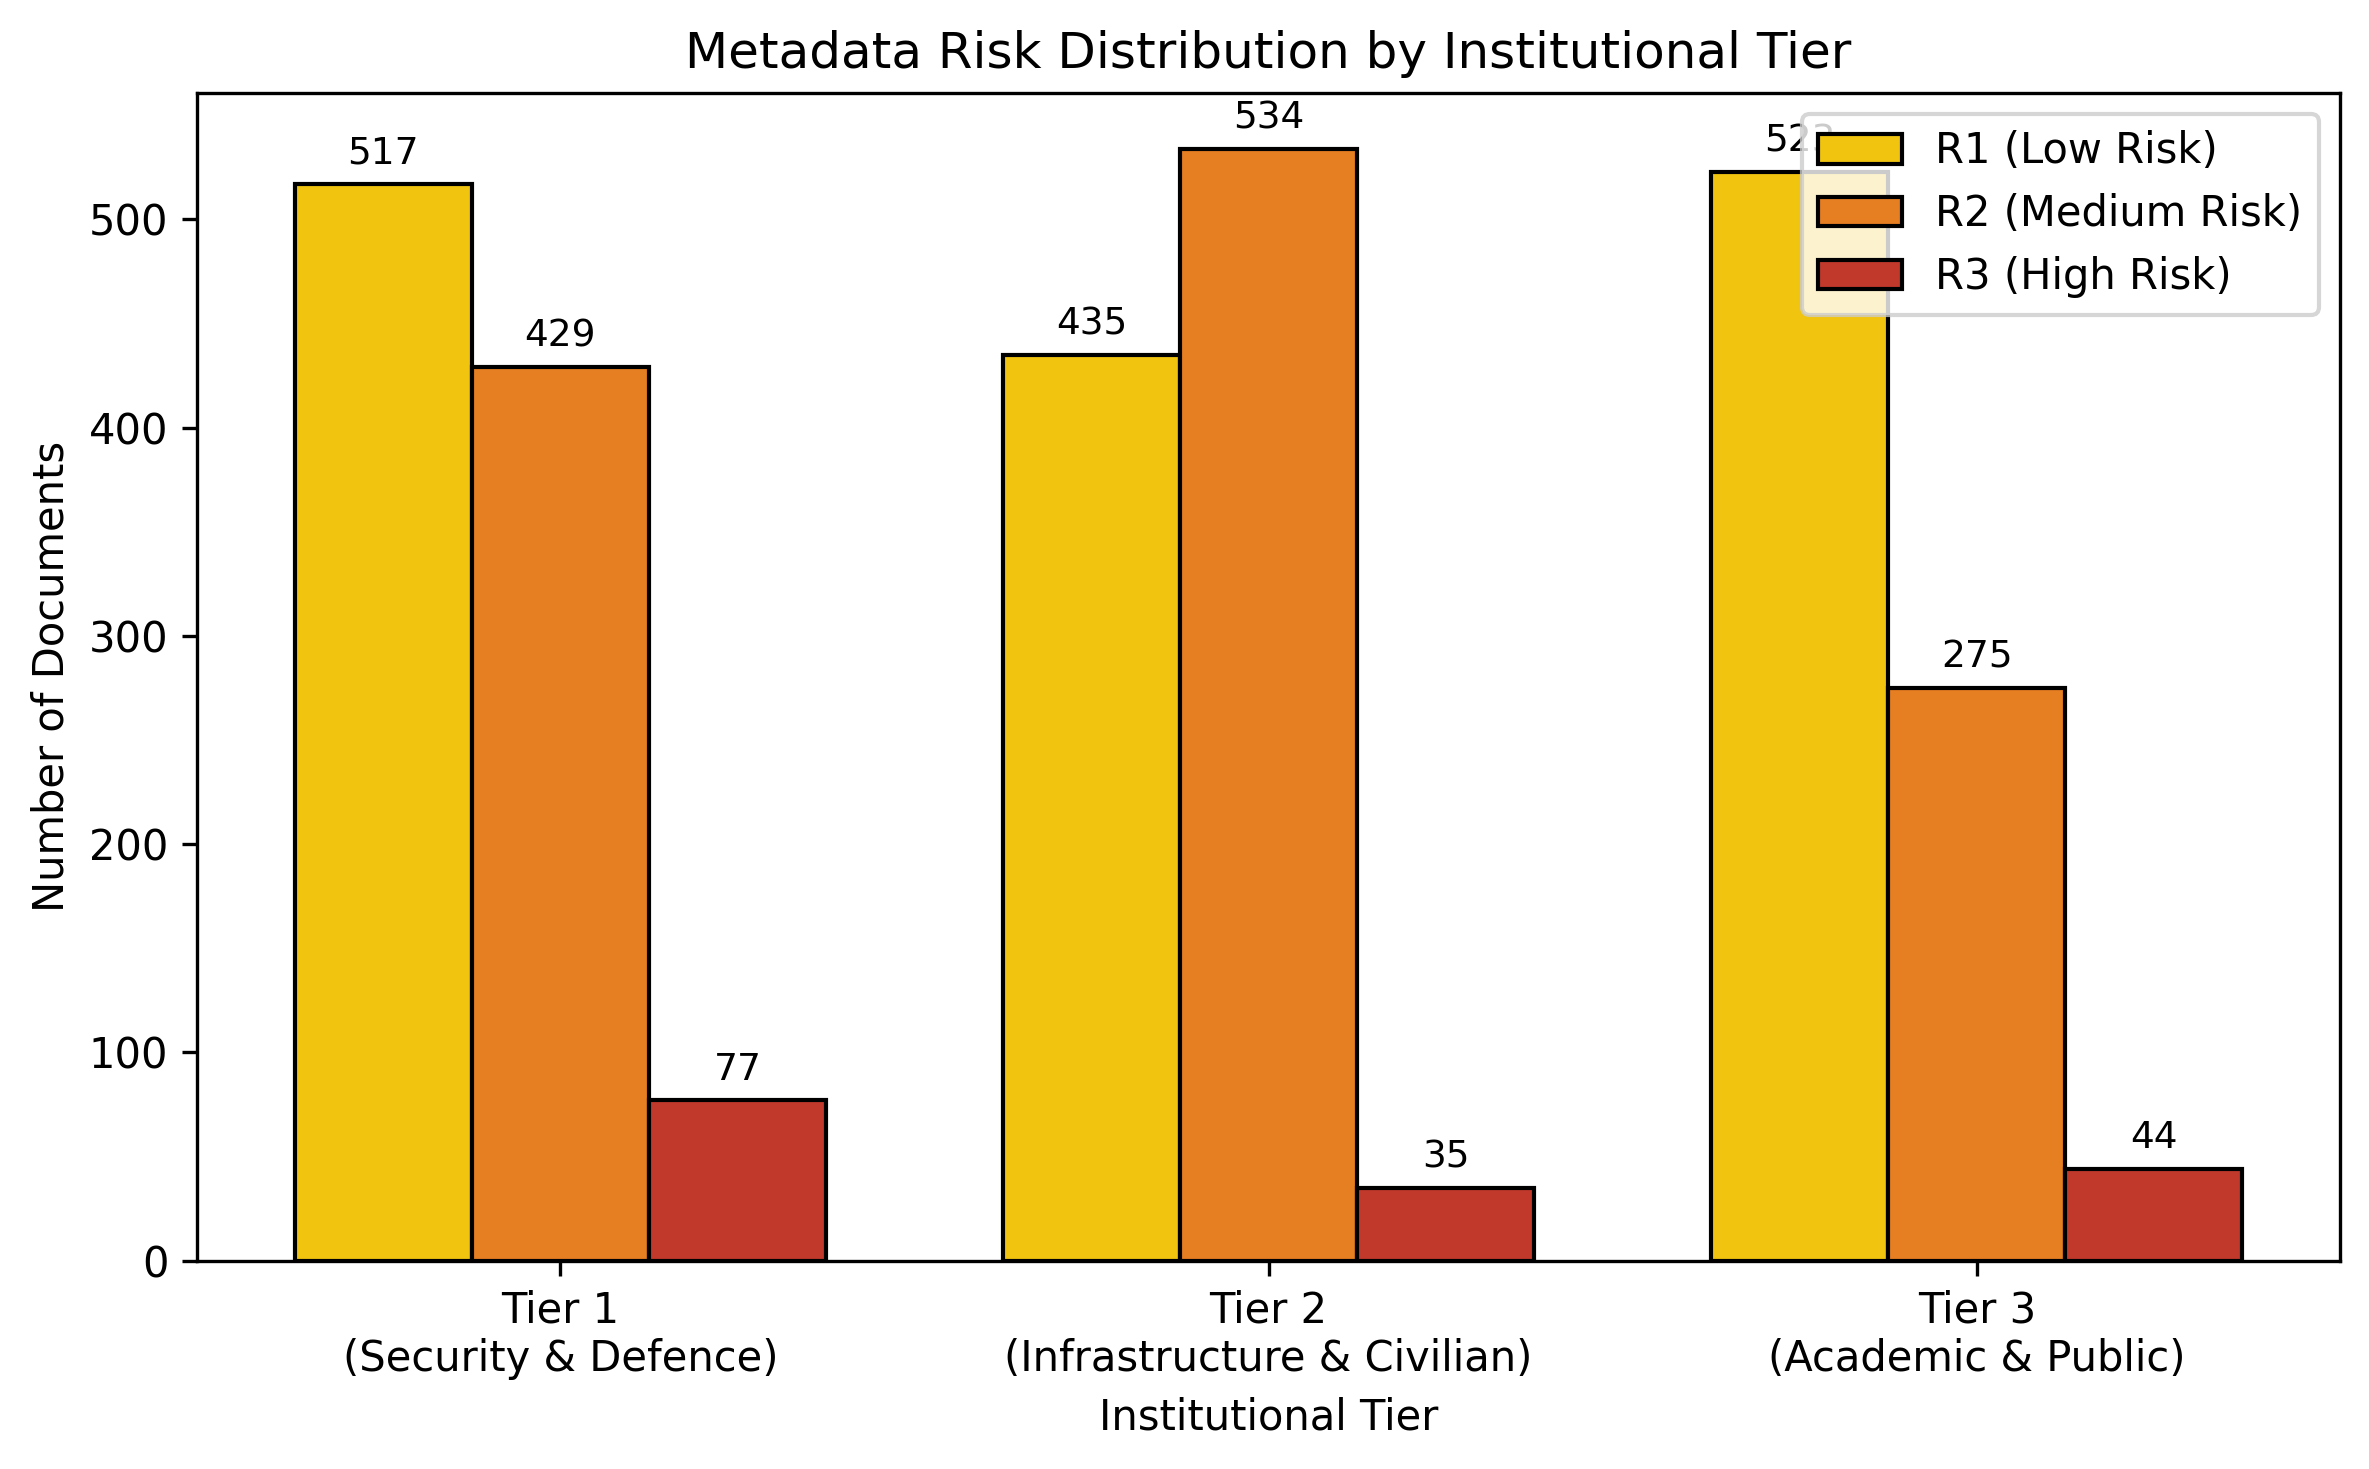
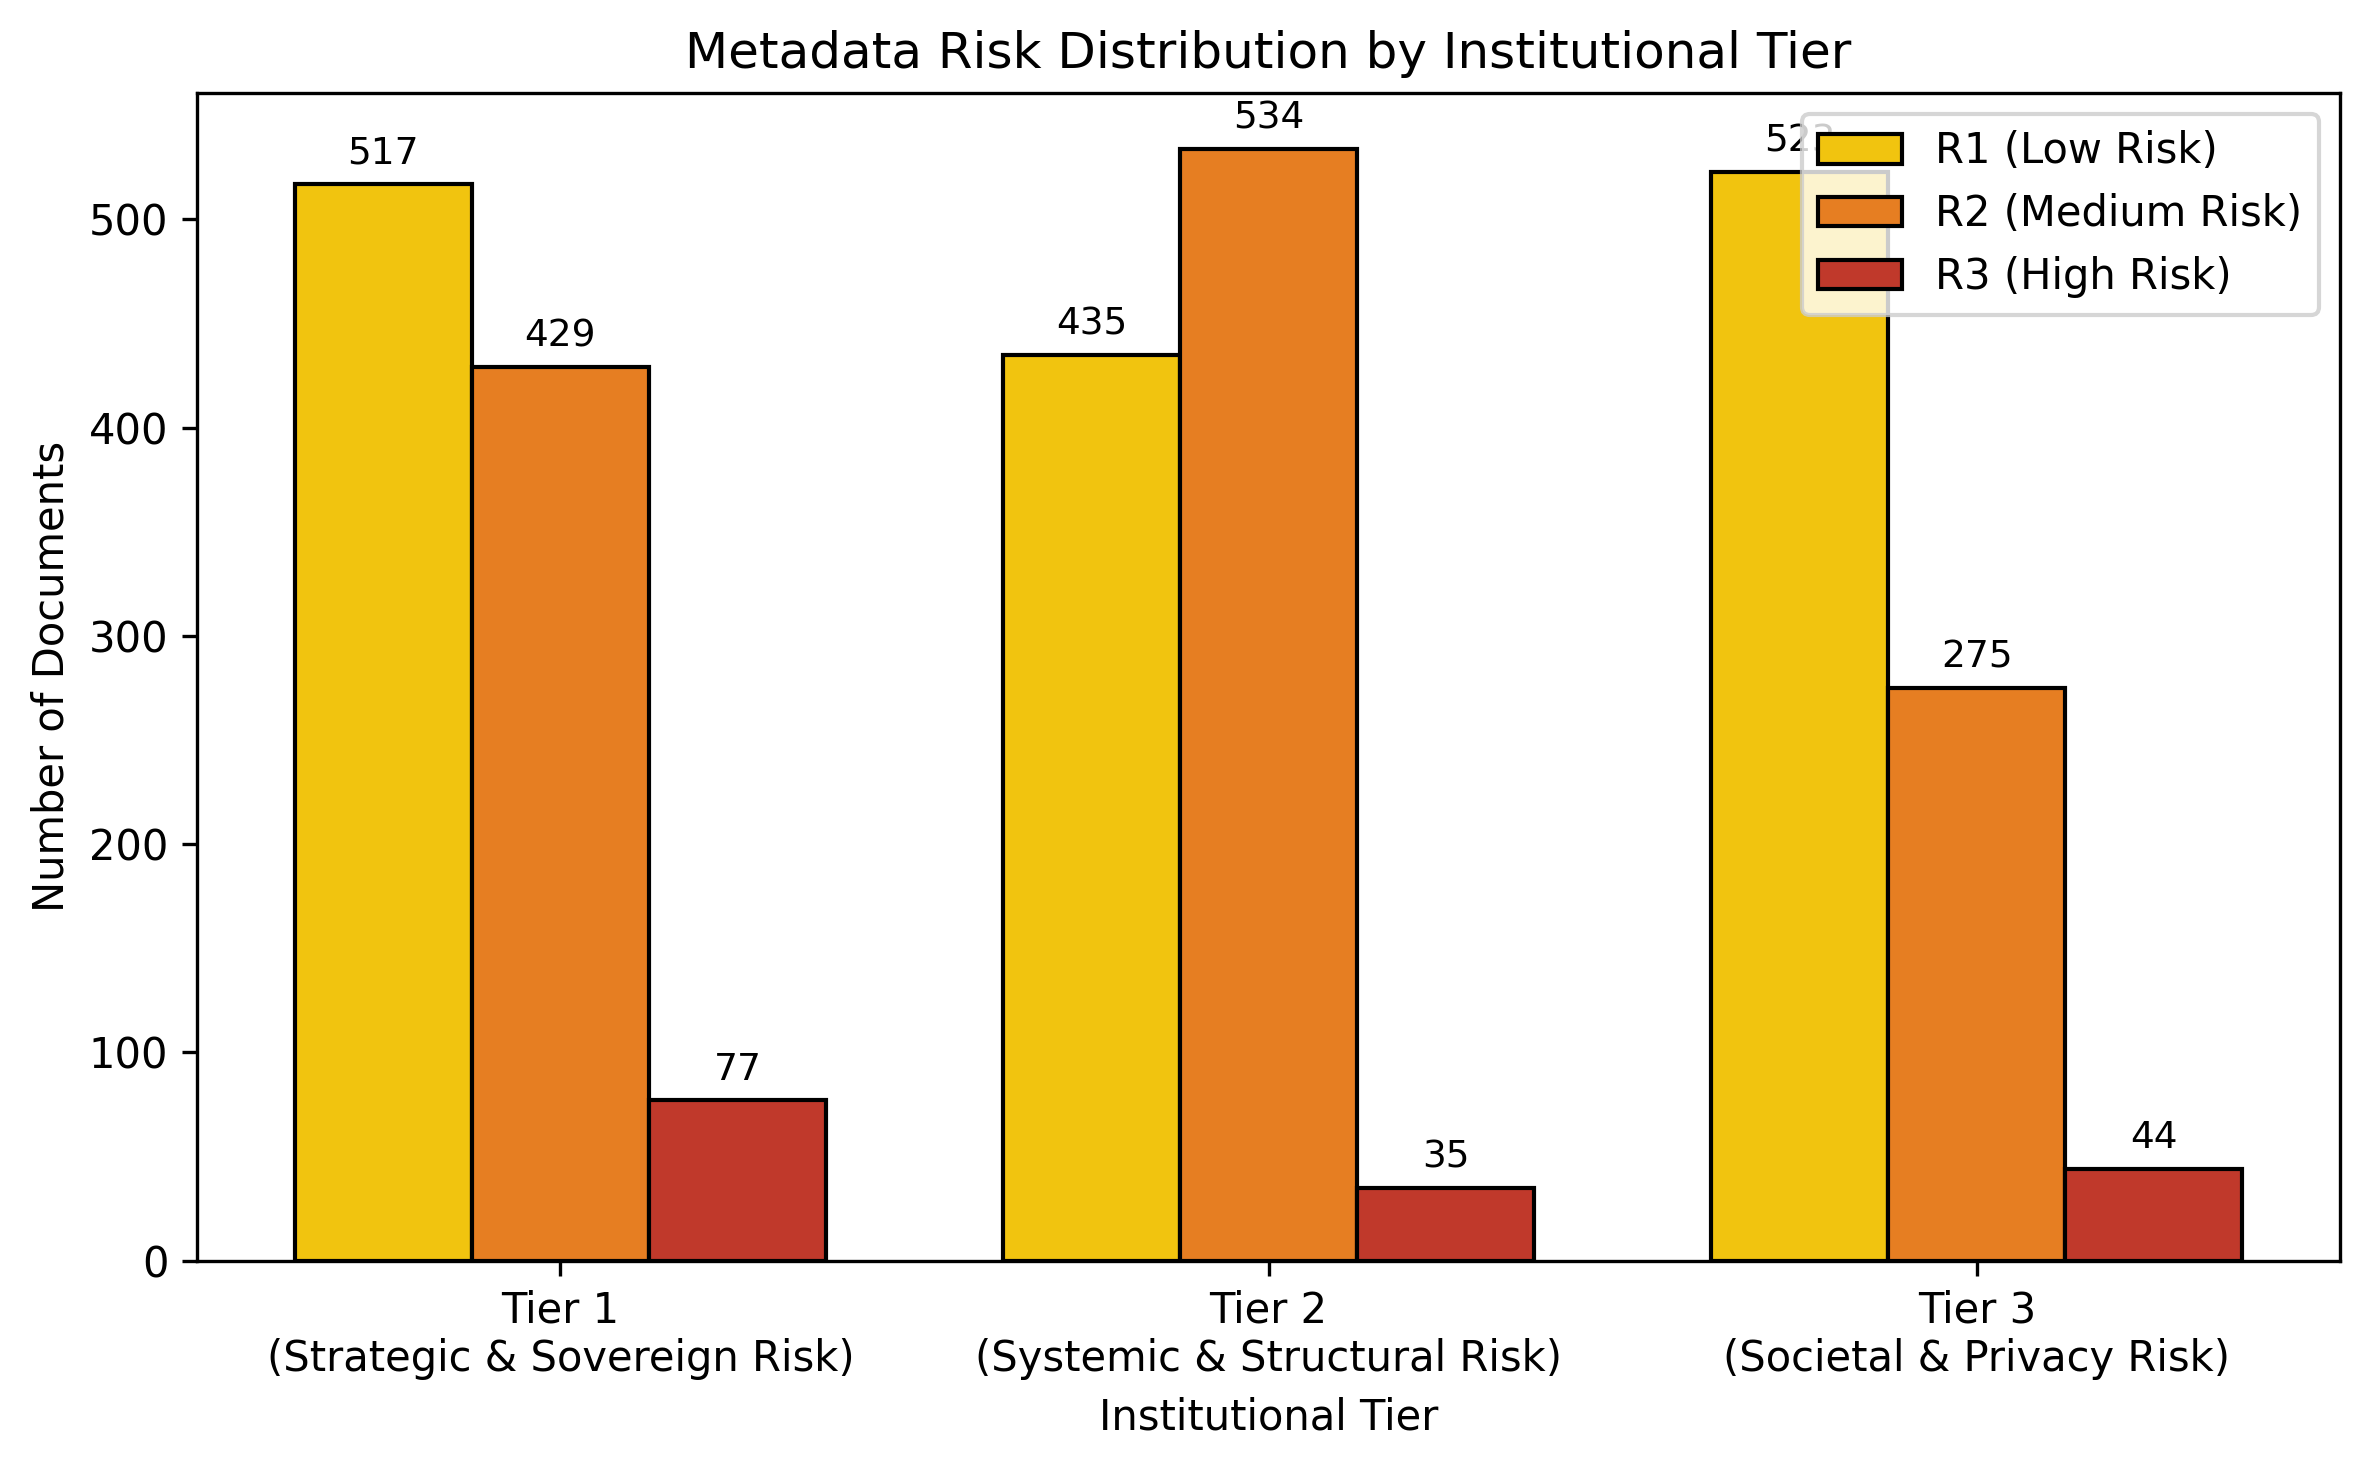
Correct Tier naming conventions in graphs and text

Changed region(s): [[0.4061, 0.8884, 0.656, 0.9496], [0.7184, 0.919, 0.9371, 0.9496], [0.1249, 0.919, 0.3436, 0.9496]]

diff --git a/06_Report/final_paper/conference_101719.tex b/06_Report/final_paper/conference_101719.tex
@@ -206,7 +206,7 @@ For the purpose of statistical validity, we established a "Significant Risk" thr
 
 The null hypothesis posited that metadata leakage rates are independent of an organization's Tier, while the alternative hypothesis asserted a systemic correlation between organizational mission and digital hygiene. All calculations were performed using Python's \texttt{scipy.stats} library, with the significance threshold set at $p < 0.05$.
 
-As shown in Table \ref{tab:chi_tier}, Tier 2 (Infrastructure \& Civilian) exhibited the highest rate of significant risk exposure (56.7\%), compared to 49.5\% in Tier 1 (Strategic \& Sovereign Risk) and 37.9\% in Tier 3 (Societal \& Privacy Risk). Both comparisons against Tier 1 yielded statistically significant results, rejecting the null hypothesis.
+As shown in Table \ref{tab:chi_tier}, Tier 2 (Systemic \& Structural Risk) exhibited the highest rate of significant risk exposure (56.7\%), compared to 49.5\% in Tier 1 (Strategic \& Sovereign Risk) and 37.9\% in Tier 3 (Societal \& Privacy Risk). Both comparisons against Tier 1 yielded statistically significant results, rejecting the null hypothesis.
 
 \begin{table}[htbp]
 \centering
